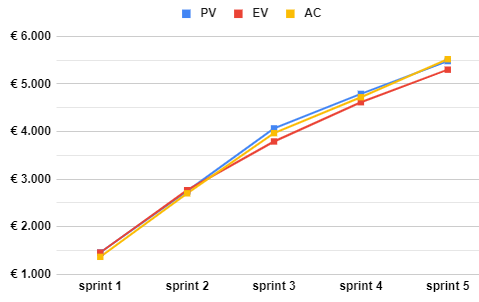
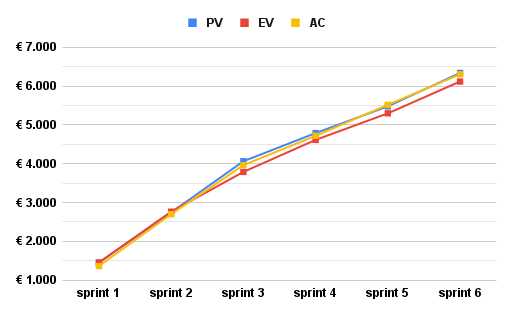
aggiornamento piano di qualifica (#152)

Changed region(s): [[0.0, 0.0894, 1.0, 0.9834], [0.3507, 0.0298, 0.6722, 0.0894], [0.0292, 0.5066, 0.1169, 0.5364]]

diff --git a/2-RTB/Documentazione_esterna/Piano_di_qualifica/cruscotto.tex b/2-RTB/Documentazione_esterna/Piano_di_qualifica/cruscotto.tex
@@ -8,7 +8,7 @@
 \end{figure}
 \subsection{Analisi}
 Analizzando i valori riportati nel grafico, è riscontrabile una difficoltà nel produrre preventivi orari vicini al consuntivato.\\
-In particolare, viene registrato un valore di poco inferiore all'accettabile nel terzo sprint. Il motivo del numero inferiore di ore produttive è stato esaminato nell'analisi retrospettiva presente nel Piano\_di\_progetto\_v1.0.
+In particolare, vengono registrati dei valori di poco inferiori all'accettabile nel terzo e quarto sprint e un valore di poco superiore nel quinto sprint. Il motivo del numero inferiore o superiore di ore produttive è stato esaminato nell'analisi retrospettiva presente nel Piano\_di\_progetto\_v1.0.
 
 \section{Varianza di Budget}
 \begin{figure}[H]
@@ -18,7 +18,7 @@ In particolare, viene registrato un valore di poco inferiore all'accettabile nel
 \end{figure}
 \subsection{Analisi}
 Dall'analisi del grafico è immediato osservare che i valori di varianza di budget sono sempre rimasti all'interno della soglia di accettabilità.\\
-È il risultato evidenziato è tuttavia migliorabile: sebbene non sia mai stato speso di del preventivato in uno sprint, è importante in futuro migliorare la fase di pianificazione. L'obiettivo deve essere quello di definire preventivi sempre più realistici, partendo da quanto consuntivato negli sprint precendenti, impegnandosi a utilizzare le ore e le risorse stanziate.
+Il risultato evidenziato è tuttavia migliorabile: sebbene non sia mai stato speso più del preventivato in uno sprint, ad eccezione del quinto, è importante in futuro migliorare la fase di pianificazione. L'obiettivo deve essere quello di definire preventivi sempre più realistici, partendo da quanto consuntivato negli sprint precendenti, impegnandosi a utilizzare le ore e le risorse stanziate.
 
 \section{Estimate to Complete e Estimate at Completion}
 \begin{figure}[H]
@@ -27,8 +27,8 @@ Dall'analisi del grafico è immediato osservare che i valori di varianza di budg
     \caption{Progressione Estimate to Complete e Estimate at Completion in relazione al Budget at Completion}
 \end{figure}
 \subsection{Analisi}
-Dopo un ottimo inizio nei primi due sprint, è possibile notare un calo dei lavori nel terzo. L'Estimate to Complete al terzo sprint è diminuito in modo meno marcato rispetto lo sprint precedente. Inoltre, l'Estimate at Completion ha superato il Budget at Completion.\\
-Questo è causato dal mancato raggiungimento di tutti gli obiettivi fissati dalla milestone del terzo sprint.
+Dopo un ottimo inizio nei primi due sprint, è possibile notare un calo dei lavori nel terzo sprint, e un altro leggero rallentamento nel quinto. L'Estimate to Complete al terzo e al quinto sprint è diminuito in modo meno marcato rispetto lo sprint precedente. Inoltre, l'Estimate at Completion ha superato il Budget at Completion.\\
+Questo è causato dal mancato raggiungimento di tutti gli obiettivi fissati dalla milestone del terzo sprint. Il valore dopo il terzo sprint è rimasto stabile ad un valore poco al di sopra del Budget at Completion.
 
 \section{Planned Value, Earned Value e Actual Cost}
 \begin{figure}[H]
@@ -47,7 +47,7 @@ Questo è causato dal mancato raggiungimento di tutti gli obiettivi fissati dall
     \caption{Progressione Schedule Variance e Cost Variance}
 \end{figure}
 \subsection{Analisi}
-Dopo un ottimo inizio nei primi due sprint, come in altre metriche è possibile notare un calo dei lavori nel terzo. Se fino al secondo sprint i valori di Schedule e Cost Variance mostravano un anticipo sui lavori rispetto il costo preventivato per eseguirli, il mancato raggiungimento di tutti gli obiettivi fissati dalla milestone del terzo sprint ha portato a dei valori negativi.
+Dopo un ottimo inizio nei primi due sprint, come in altre metriche è possibile notare un calo dei lavori nel terzo. Se fino al secondo sprint i valori di Schedule e Cost Variance mostravano un anticipo sui lavori rispetto il costo preventivato per eseguirli, il mancato raggiungimento di tutti gli obiettivi fissati dalla milestone del terzo sprint ha portato a dei valori negativi. Dal quarto sprint in poi i valori sono aumentati riportandosi e stabilendosi ad un livello di poco inferiore all'accettabile. Nel quinto sprint è riscontrabile un rallentamento dovuto al colloquio svolto con il committente, nel quale è emersa la necessità di apportare delle modifiche non previste a dei documenti.
 
 \section{Schedule Performance Index e Cost Performance Index}
 \begin{figure}[H]
@@ -56,7 +56,7 @@ Dopo un ottimo inizio nei primi due sprint, come in altre metriche è possibile 
     \caption{Progressione Schedule Performance Index e Cost Performance Index}
 \end{figure}
 \subsection{Analisi}
-Similmente a quanto riscontrabile dall'analisi dei valori di Schedule e Cost Variance, i valori di Schedule Performance Index e Cost Performance Index sono scesi sotto l'1 con la fine dello sprint 3.
+Similmente a quanto riscontrabile dall'analisi dei valori di Schedule e Cost Variance, i valori di Schedule Performance Index e Cost Performance Index sono scesi sotto l'1 con la fine dello sprint 3. I valori comunque rimangono ampiamente all'interno dei valori accettabili stabilendosi sullo 0,97.
 
 \section{Misure di mitigazione insufficienti}
 \begin{figure}[H]

diff --git a/2-RTB/Documentazione_esterna/Piano_di_qualifica/frontespizio.tex b/2-RTB/Documentazione_esterna/Piano_di_qualifica/frontespizio.tex
@@ -9,6 +9,6 @@
         \node [draw,white,text=black, below=of uni] (corso1) {\fontsize{28pt}{32pt}\selectfont Corso di Ingegneria};
         \node [yshift=0.75cm,draw,white,text=black, below=of corso1] (corso2) {\fontsize{28pt}{32pt}\selectfont del Software};
         \node [xshift=3.5cm,yshift=7cm,draw,white,text=black] (riunione) at (current page.south){\fontsize{40pt}{48pt}\selectfont Piano di qualifica};
-        \node [draw,white,text=black, below=of riunione] (versione) {\fontsize{28pt}{32pt}\selectfont Versione 0.11};
+        \node [draw,white,text=black, below=of riunione] (versione) {\fontsize{28pt}{32pt}\selectfont Versione 0.12};
     \end{tikzpicture}
 \end{titlepage}

diff --git a/2-RTB/Documentazione_esterna/Piano_di_qualifica/log.tex b/2-RTB/Documentazione_esterna/Piano_di_qualifica/log.tex
@@ -12,6 +12,8 @@
     \rowcolor{headerrow} \textbf{\textcolor{white}{Versione}} & \textbf{\textcolor{white}{Data}} & \textbf{\textcolor{white}{Autori}} & \textbf{\textcolor{white}{Verificatori}} & \textbf{\textcolor{white}{Descrizione}} \\
     \endhead
     \hline
+    0.12 & 2024/02/05 & Francesco Ferraioli & Andrea Cecchin & Aggiornamento sezione \ref{sec:cruscotto}.\\
+    \hline
     0.11 & 2024/01/28 & Andrea Cecchin & Anna Nordio & Aggiornamento sezione \ref{sec:cruscotto}.\\
     \hline
     0.10 & 2024/01/19 & Francesco Giacomuzzo & Andrea Cecchin & Aggiornamento sezione \ref{sec:test}.\\
